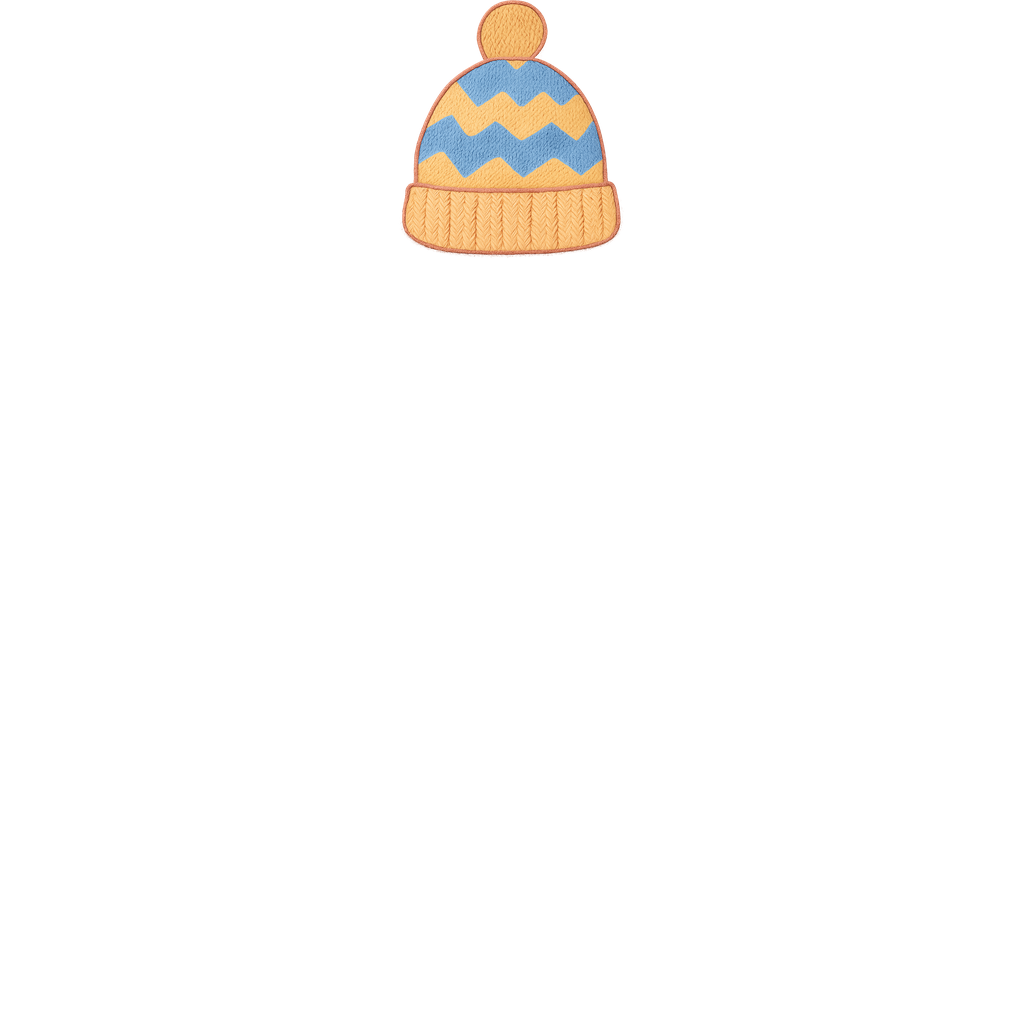
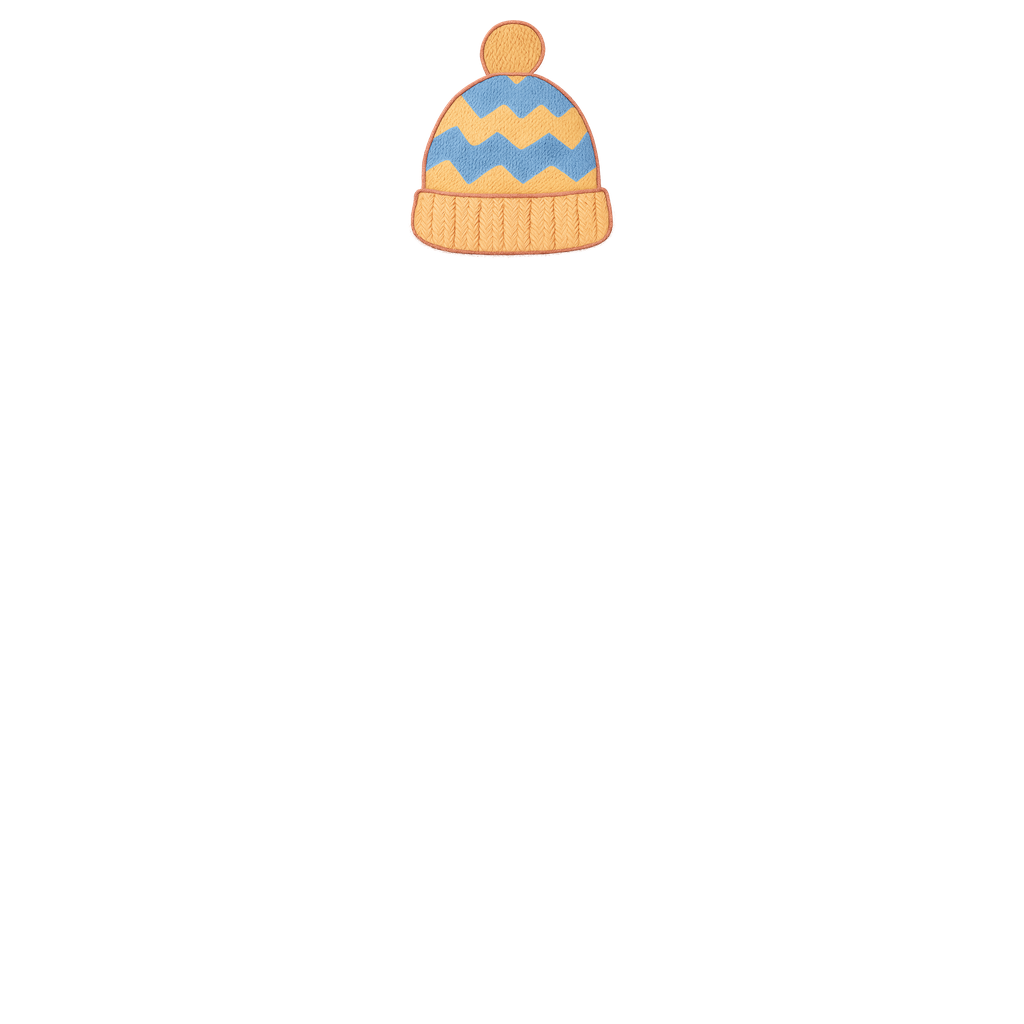
feat(collection): per-piece headwear placement — anchor each hat by its shape
Generic place_on_head with one anchor didn't work for 11 hats with
different silhouettes: a party-hat cone sits between the eye bumps, a
beanie wraps a different part of the head, headphones go OVER the
head with the cups at side-of-face (where a frog's tympanums are),
and an astronaut helmet engulfs the whole head with the collar at
the neck.

Replaced the single HEAD_CROWN_Y constant with a per-key
HEADWEAR_PLACEMENT dict — each hat has its own max_w, max_h and
anchor_y offset (from FROG_TOP_PAD). The 'don't obstruct the eyes'
rule was the binding constraint for most hats; beanie and pirate-hat
in particular had to come up the head a bit so the brim sat above
the eye crescent drawings (canvas y=283..377).

Visual check — each hat rendered solo against the canonical via the
Lab preview, then a full pack-pull on /collection to confirm the
grid still reads:

- party-hat        cone, pompom visible, between eye bumps
- bobble-beanie    sits on crown, cuff above eye crescents
- flower-crown     halo wreath just above the head
- chef-hat         mushroom on crown, brim above eyes
- sailor-cap       flat cap on crown, blue band above eyes
- top-hat          cylinder on crown, brim above eyes
- headphones       band over the head, cups at temple/ear level
                   (frog tympanums are on the sides of the head)
- pirate-hat       tricorn on crown — natural brim-corner dip kept
- birthday-12      cone with 12, between eye bumps
[…]

Changed region(s): [[0.375, 0.0, 0.625, 0.25]]

diff --git a/scripts/build-collection-layers.py b/scripts/build-collection-layers.py
@@ -38,12 +38,39 @@ PHASE = ["background", "frog", "headwear"]
 FROG_TOP_PAD = 220
 FROG_INNER_H = CANVAS - FROG_TOP_PAD  # the height the canonical lives in
 
-HEAD_CROWN_Y = FROG_TOP_PAD + 40   # hat BOTTOM sits here — just into eye-bump tops
-HEAD_HAT_MAX_W = 620               # widest a hat can be
-HEAD_HAT_MAX_H = HEAD_CROWN_Y      # tallest a hat can be — extends UP to y=0
 EYE_BOX = (286, FROG_TOP_PAD + 100, 738, FROG_TOP_PAD + 270)
 HAND_BOX = (96, FROG_TOP_PAD + 380, 452, FROG_TOP_PAD + 680)
 SHOE_BOX = (250, FROG_TOP_PAD + 680, 776, CANVAS - 8)
+
+# Per-piece headwear placement, after a lot of visual iteration.
+# Frog anatomy after FROG_TOP_PAD=220:
+#   y=0..220   clear sky (the hat zone)
+#   y=220..360 eye bumps (front face has the smile-crescent eye drawings)
+#   y=360..540 head face / mouth
+#   y=540..760 body
+# Rules:
+#   - max_w / max_h are the largest the trimmed art may be (aspect preserved)
+#   - anchor_y is an offset FROM FROG_TOP_PAD: hat bottom sits at
+#     FROG_TOP_PAD + anchor_y, so anchor_y=40 puts the brim at canvas y=260
+#     (just above the eye bumps' front face)
+#   - dx is a horizontal nudge from canvas centre
+# Default intent: hat brim rests on the head crown, just above the eye
+# crescent drawings, with the hat extending UP. Exceptions: headphones
+# wrap around the head with the cups at "ear" level on the sides of the
+# face; the astronaut helmet swallows the whole head.
+HEADWEAR_PLACEMENT: dict[str, dict] = {
+    "party-hat":        {"max_w": 320, "max_h": 240, "anchor_y":  40, "dx": 0},
+    "beanie":           {"max_w": 420, "max_h": 240, "anchor_y":  40, "dx": 0},
+    "flower-crown":     {"max_w": 540, "max_h": 200, "anchor_y":  50, "dx": 0},
+    "chef-hat":         {"max_w": 360, "max_h": 280, "anchor_y":  40, "dx": 0},
+    "sailor-cap":       {"max_w": 460, "max_h": 220, "anchor_y":  70, "dx": 0},
+    "top-hat":          {"max_w": 440, "max_h": 300, "anchor_y":  40, "dx": 0},
+    "headphones":       {"max_w": 600, "max_h": 280, "anchor_y":  80, "dx": 0},
+    "pirate-hat":       {"max_w": 620, "max_h": 260, "anchor_y":  60, "dx": 0},
+    "birthday-12":      {"max_w": 360, "max_h": 280, "anchor_y":  40, "dx": 0},
+    "astronaut-helmet": {"max_w": 720, "max_h": 700, "anchor_y": 480, "dx": 0},
+    "crown":            {"max_w": 420, "max_h": 220, "anchor_y":  60, "dx": 0},
+}
 
 FROG_KEYS = ["none", "raincoat", "painter-smock", "chef-apron", "pyjamas",
              "tutu", "sailor", "strongman", "wedding-suit", "superhero",
@@ -100,21 +127,22 @@ def place_in_box(src: Path, box: tuple[int, int, int, int]) -> Image.Image:
     return canvas
 
 
-def place_on_head(src: Path) -> Image.Image:
-    """Place a hat so its BOTTOM sits at HEAD_CROWN_Y and it extends upward.
+def place_on_head(src: Path, key: str) -> Image.Image:
+    """Place a hat by its per-piece spec in HEADWEAR_PLACEMENT.
 
-    Hat is scaled to fit (max_w, max_h), preserving aspect ratio, then
-    centred horizontally on the canvas and anchored vertically so the brim
-    rests on the head-crown reference line.
+    Each hat sits with its BOTTOM at FROG_TOP_PAD + anchor_y, extending up.
+    max_w/max_h are the largest the trimmed art may be (aspect preserved).
+    dx shifts the hat horizontally from centre.
     """
+    spec = HEADWEAR_PLACEMENT[key]
     art = trimmed(src)
-    scale = min(HEAD_HAT_MAX_W / art.width, HEAD_HAT_MAX_H / art.height)
+    scale = min(spec["max_w"] / art.width, spec["max_h"] / art.height)
     new_w = max(1, round(art.width * scale))
     new_h = max(1, round(art.height * scale))
     art = art.resize((new_w, new_h), Image.LANCZOS)
     canvas = blank()
-    x = (CANVAS - new_w) // 2
-    y = HEAD_CROWN_Y - new_h
+    x = (CANVAS - new_w) // 2 + spec.get("dx", 0)
+    y = FROG_TOP_PAD + spec["anchor_y"] - new_h
     canvas.alpha_composite(art, (x, y))
     return canvas
 
@@ -184,7 +212,7 @@ def main() -> int:
         for key in HEADWEAR:
             src = RAW / "headwear" / f"{key}.png"
             if src.exists():
-                save(place_on_head(src), "headwear", key)
+                save(place_on_head(src, key), "headwear", key)
                 built += 1
             else:
                 missing.append(f"headwear/{key}")
